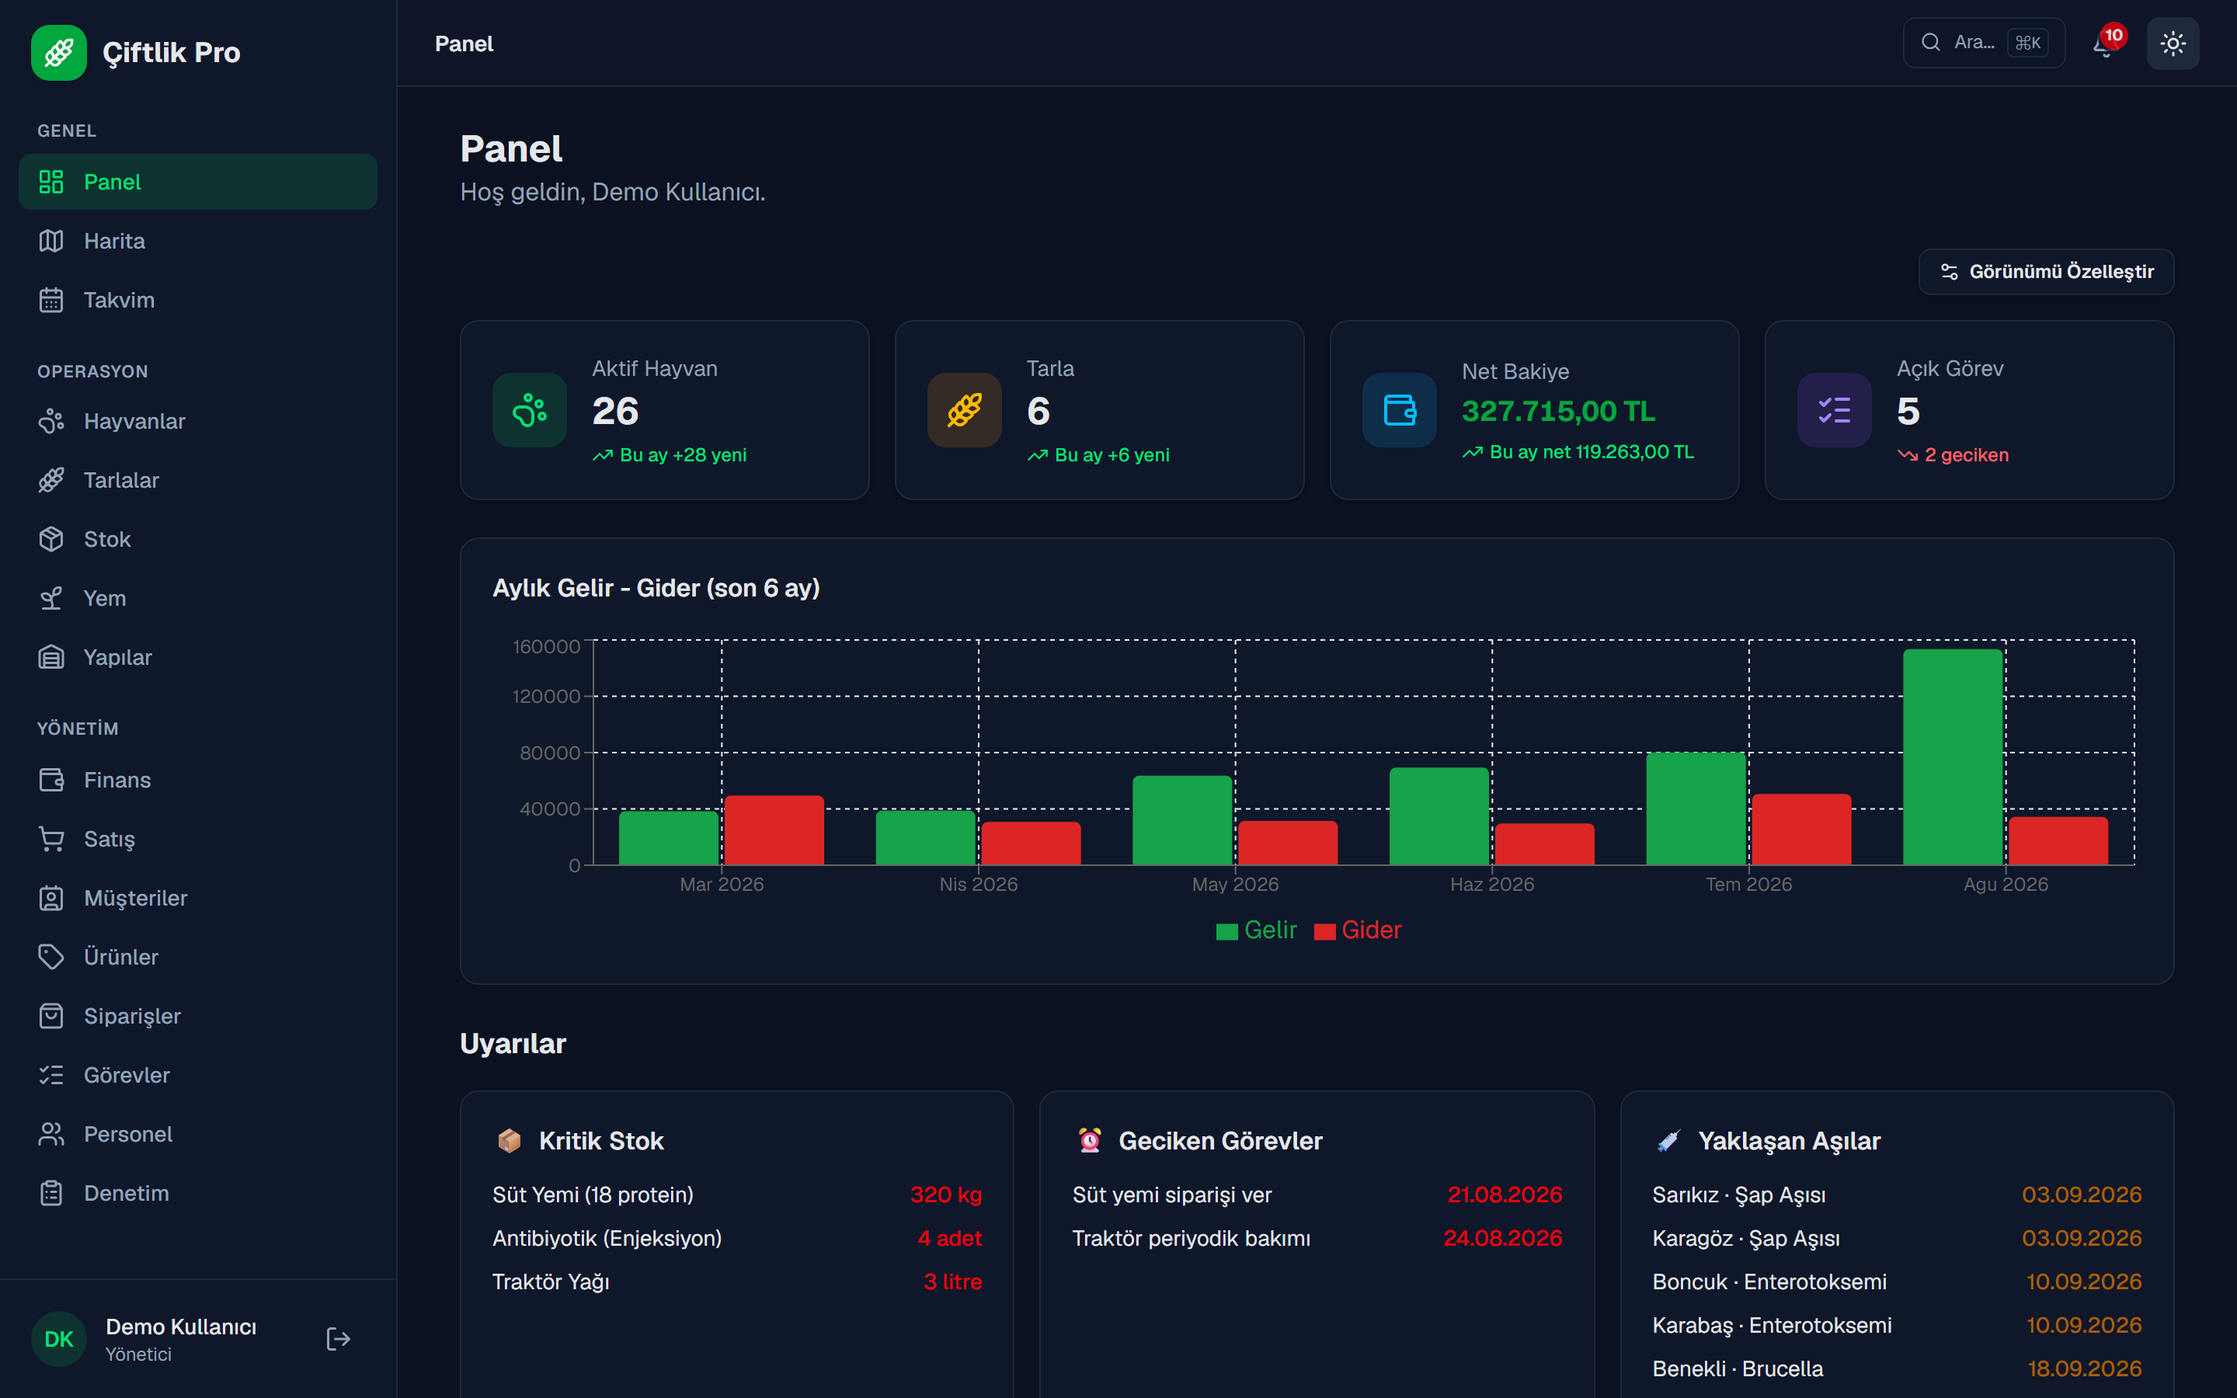
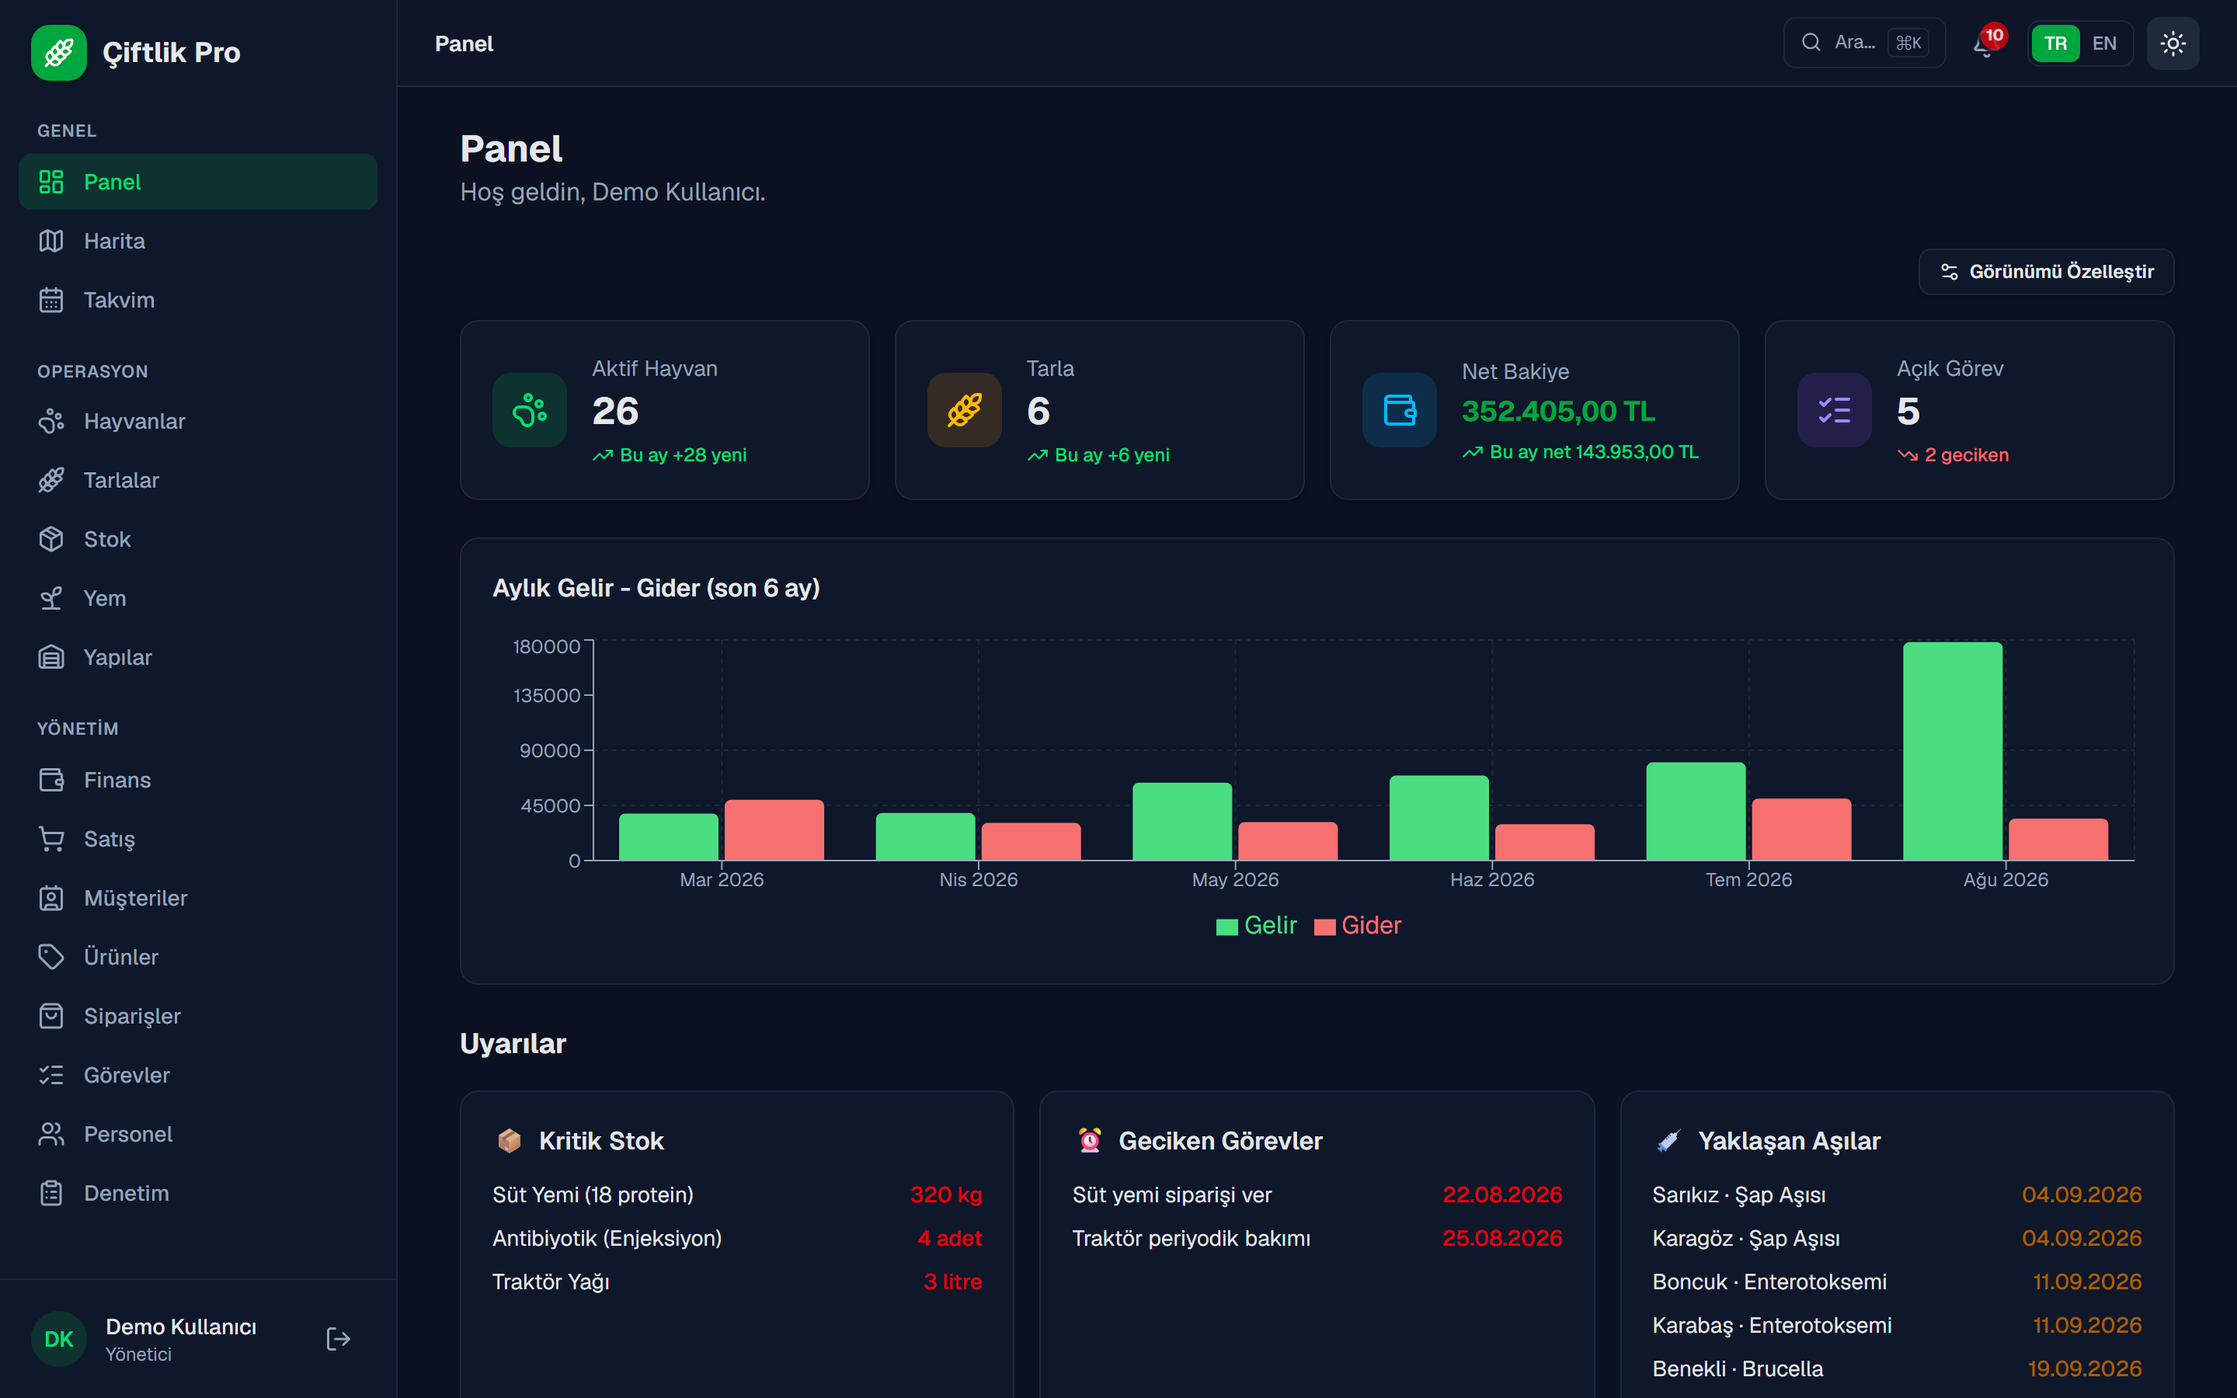
feat(i18n): grafik ay etiketlerini yerellestir, iki dilde gorsel uret, README'leri guncelle
Aylik gelir-gider grafiginin ekseninde sabit bir Turkce kisa-ay dizisi vardi
(Oca/Sub/Mar...), yani Ingilizce panelde "Nis 2026" gorunuyordu. Intl ile aktif
dile gore uretiliyor; buildMonthlyFinance artik locale aliyor ve yeni birim testi
iki dilin FARKLI etiket urettigini dogruluyor.

Ekran goruntusu ve GIF script'leri iki dilli:
- SHOT_LOCALE=en -> docs/screenshots/en/ + docs/demo.en.gif
- varsayilan tr -> mevcut yollar (README.tr.md degismedi)
Metne dayali seciciler (demo dugmesi, tema anahtari) artik ceviri katalogundan
okunuyor — uygulamayla tek kaynak, dil degisince sessizce kirilmiyor. Onboarding
kapat dugmesine data-testid eklendi: aria-label cevrildigi icin metne dayali
secici EN kosusunda kirilirdi.

README'lerdeki daraltilmis i18n ifadesi artik gecersiz: kapsam "her ekran + her
API mesaji, 818 anahtar" olarak guncellendi; ARCHITECTURE'daki "Partial i18n
coverage" sinirlamasi, bilincli iki istisnayi (kiraci verisi + gunluk ozet
e-postasi) anlatan bir satirla degistirildi. Test sayisi 303.

Claude-Session: https://claude.ai/code/session_01FkQpp2zrA9WRvBEyv7TnP3

diff --git a/src/lib/finance.ts b/src/lib/finance.ts
@@ -6,10 +6,8 @@ export type MonthlyFinance = {
   gider: number;
 };
 
-const MONTH_NAMES = [
-  "Oca", "Sub", "Mar", "Nis", "May", "Haz",
-  "Tem", "Agu", "Eyl", "Eki", "Kas", "Ara",
-];
+// Ay etiketi aktif dile gore uretilir: Intl kisa ay adini (Oca / Jan) verir,
+// boylece sabit bir Turkce dizi tutmaya gerek kalmaz.
 
 type SimpleTransaction = {
   type: "INCOME" | "EXPENSE";
@@ -19,8 +17,12 @@ type SimpleTransaction = {
 
 // Islemleri son 6 aya gore gruplayip grafik verisi uretir.
 export function buildMonthlyFinance(
-  transactions: SimpleTransaction[]
+  transactions: SimpleTransaction[],
+  locale: string = "tr"
 ): MonthlyFinance[] {
+  const monthLabel = new Intl.DateTimeFormat(locale === "tr" ? "tr-TR" : "en-US", {
+    month: "short",
+  });
   const now = new Date();
   const buckets: MonthlyFinance[] = [];
   const keyToIndex = new Map<string, number>();
@@ -29,7 +31,7 @@ export function buildMonthlyFinance(
   for (let i = 5; i >= 0; i--) {
     const d = new Date(now.getFullYear(), now.getMonth() - i, 1);
     const key = `${d.getFullYear()}-${d.getMonth()}`;
-    const label = `${MONTH_NAMES[d.getMonth()]} ${d.getFullYear()}`;
+    const label = `${monthLabel.format(d)} ${d.getFullYear()}`;
     keyToIndex.set(key, buckets.length);
     buckets.push({ month: label, gelir: 0, gider: 0 });
   }

diff --git a/src/lib/finance.test.ts b/src/lib/finance.test.ts
@@ -7,6 +7,19 @@ describe("buildMonthlyFinance", () => {
     expect(result).toHaveLength(6);
   });
 
+  it("ay etiketi aktif dile gore uretilir", () => {
+    const tr = buildMonthlyFinance([], "tr").map((m) => m.month);
+    const en = buildMonthlyFinance([], "en").map((m) => m.month);
+    // Etiket "<kisa ay> <yil>" bicimindedir ve dile gore FARKLI olmalidir
+    // (grafik ekseninde Ingilizce arayuzde Turkce ay adi gorunmesin).
+    expect(tr).toHaveLength(6);
+    expect(en).toHaveLength(6);
+    expect(tr.every((label) => /^\S+ \d{4}$/.test(label))).toBe(true);
+    expect(en.every((label) => /^\S+ \d{4}$/.test(label))).toBe(true);
+    // Yil ayni, ay adi dile bagli: en az bir ayda ayrisirlar.
+    expect(tr.some((label, i) => label !== en[i])).toBe(true);
+  });
+
   it("bos veride tum aylar sifirdir", () => {
     const result = buildMonthlyFinance([]);
     for (const month of result) {

diff --git a/src/components/onboarding-modal.tsx b/src/components/onboarding-modal.tsx
@@ -208,6 +208,9 @@ export function OnboardingModal({
             type="button"
             onClick={finish}
             aria-label={t("close")}
+            // Ekran goruntusu/GIF script'leri modali dilden BAGIMSIZ kapatabilsin diye
+            // (aria-label artik cevriliyor; metne dayali secici EN kosusunda kirilirdi).
+            data-testid="onboarding-close"
             className="absolute right-4 top-4 rounded-lg p-1 text-white/80 transition hover:bg-card/20 hover:text-white focus-visible:outline-none focus-visible:ring-2 focus-visible:ring-white"
           >
             <X className="h-5 w-5" />

diff --git a/src/app/panel/page.tsx b/src/app/panel/page.tsx
@@ -129,7 +129,7 @@ export default async function PanelPage() {
 
   const criticalItems = inventoryItems;
 
-  const monthlyFinance = buildMonthlyFinance(recentTransactions);
+  const monthlyFinance = buildMonthlyFinance(recentTransactions, locale);
 
   const hasAlerts =
     criticalItems.length > 0 ||

diff --git a/README.md b/README.md
@@ -13,12 +13,14 @@ role-based dashboard.
 [![TypeScript](https://img.shields.io/badge/TypeScript-5-blue?logo=typescript&logoColor=white)](https://www.typescriptlang.org/)
 [![Prisma](https://img.shields.io/badge/Prisma-6-2D3748?logo=prisma&logoColor=white)](https://www.prisma.io/)
 [![PostgreSQL](https://img.shields.io/badge/PostgreSQL-16-4169E1?logo=postgresql&logoColor=white)](https://www.postgresql.org/)
-[![Tests](https://img.shields.io/badge/tests-293%20unit%20%2B%2018%20e2e-success)](#testing--quality)
+[![Tests](https://img.shields.io/badge/tests-303%20unit%20%2B%2018%20e2e-success)](#testing--quality)
 [![Multi-tenant](https://img.shields.io/badge/multi--tenant-Postgres%20RLS-4169E1)](#multi-tenancy)
 [![License: MIT](https://img.shields.io/badge/License-MIT-yellow.svg)](LICENSE)
 
 🔗 **Live demo: [ciftlik-pro.vercel.app](https://ciftlik-pro.vercel.app)** &nbsp;·&nbsp;
-click **"Demo olarak gez"** (Browse as demo) — or `demo@ciftlik.com` / `demo1234`
+click **"Browse as demo"** — or sign in with `demo@ciftlik.com` / `demo1234`
+
+<sub>The demo opens in your browser's language; use the TR/EN switch in the header to change it.</sub>
 
 🇹🇷 **[Türkçe README](README.tr.md)**
 
@@ -31,7 +33,7 @@ click **"Demo olarak gez"** (Browse as demo) — or `demo@ciftlik.com` / `demo12
 Sign in → dashboard → animal list (server-side search) → animal detail (milk and
 weight charts) → 2D farm map → calendar → finance → dark mode → farm storefront:
 
-![Çiftlik Pro demo tour](docs/demo.gif)
+![Çiftlik Pro demo tour](docs/demo.en.gif)
 
 ---
 
@@ -81,23 +83,23 @@ a user by email at sign-in, and opening an invitation link by token — go throu
 **Dashboard** — sidebar layout, summary cards with real month-over-month deltas,
 and a monthly income/expense chart:
 
-![Dashboard](docs/screenshots/dashboard.png)
+![Dashboard](docs/screenshots/en/dashboard.png)
 
 | 🌙 Dark mode | 🛒 Farm storefront (`/magaza/[slug]`) |
 | ------------ | ------------------------------------- |
-| ![Dark mode](docs/screenshots/dashboard-dark.png) | ![Storefront](docs/screenshots/store.png) |
+| ![Dark mode](docs/screenshots/en/dashboard-dark.png) | ![Storefront](docs/screenshots/en/store.png) |
 
 | 💳 Billing — plan & usage limits | 👥 Staff — invitations & roles |
 | -------------------------------- | ------------------------------ |
-| ![Billing](docs/screenshots/billing.png) | ![Staff](docs/screenshots/staff.png) |
+| ![Billing](docs/screenshots/en/billing.png) | ![Staff](docs/screenshots/en/staff.png) |
 
 | Animals (server-side searchable table) | Animal detail (milk / weight charts) |
 | -------------------------------------- | ------------------------------------ |
-| ![Animals](docs/screenshots/animals.png) | ![Animal detail](docs/screenshots/animal-detail.png) |
+| ![Animals](docs/screenshots/en/animals.png) | ![Animal detail](docs/screenshots/en/animal-detail.png) |
 
 | 2D farm map | Calendar (vaccinations / tasks / harvest / births) |
 | ----------- | -------------------------------------------------- |
-| ![Map](docs/screenshots/map.png) | ![Calendar](docs/screenshots/calendar.png) |
+| ![Map](docs/screenshots/en/map.png) | ![Calendar](docs/screenshots/en/calendar.png) |
 
 ---
 
@@ -134,13 +136,15 @@ and a monthly income/expense chart:
   palette, and a `cva`-based design system.
 - **Onboarding tour** — a role-specific, multi-step welcome modal on the first
   visit to the dashboard; restartable at any time from the profile page.
-- **Bilingual (TR/EN)** — next-intl with a cookie-selected locale (Turkish by
-  default): **all 466 translation keys** exist in both locales, including
-  localized date and currency formatting. Coverage is the dashboard and the panel
-  modules — navigation, lists, forms, calendar labels, summary cards. The newer
-  surfaces (public storefront, billing, invitation screens) and server-side API
-  error messages are still Turkish-only; the plumbing is in place, they simply
-  have not been moved to the catalogue yet.
+- **Bilingual (TR/EN), end to end** — every screen and every API error message,
+  in **all 818 translation keys** across both catalogues: the panel, the public
+  storefront and cart, billing, invitations, the 404 and error boundaries, and
+  the responses a write endpoint returns. Dates, currency and chart month labels
+  follow the active locale too. A first-time visitor gets their **browser's
+  language** (`Accept-Language`); the switcher in the header — or on the profile
+  page — pins a choice in a cookie from then on. The two exceptions are
+  deliberate: farm data belongs to the tenant who typed it, and the daily digest
+  email has no viewer whose language to read.
 - **Email alerts** — a daily cron emails each tenant's admins a digest of critical
   stock, overdue tasks and upcoming vaccinations (Resend).
 
@@ -347,7 +351,7 @@ npm run dev              # http://localhost:3000
 
 ## Testing & quality
 
-- **293 unit/component tests** (Vitest + Testing Library) covering validation
+- **303 unit/component tests** (Vitest + Testing Library) covering validation
   schemas, RBAC, rate limiting, list query parsing, plan limits, finance/map/date/
   calendar helpers and UI primitives — **~90% line coverage on business logic** (the shared, database-backed paths are covered by integration tests instead).
 - **Tenant isolation integration tests** (`*.int.test.ts`) against a real

diff --git a/README.tr.md b/README.tr.md
@@ -12,7 +12,7 @@ Sistemi (ERP) — hayvan, tarla, stok, finans, satış, mağaza ve personel tek 
 [![Prisma](https://img.shields.io/badge/Prisma-6-2D3748?logo=prisma&logoColor=white)](https://www.prisma.io/)
 [![PostgreSQL](https://img.shields.io/badge/PostgreSQL-16-4169E1?logo=postgresql&logoColor=white)](https://www.postgresql.org/)
 [![codecov](https://codecov.io/gh/YusufKosarDev/ciftlik-pro/branch/main/graph/badge.svg)](https://codecov.io/gh/YusufKosarDev/ciftlik-pro)
-[![Tests](https://img.shields.io/badge/tests-293%20unit%20%2B%2018%20e2e-success)](#test--kalite)
+[![Tests](https://img.shields.io/badge/tests-303%20unit%20%2B%2018%20e2e-success)](#test--kalite)
 [![Multi-tenant](https://img.shields.io/badge/multi--tenant-Postgres%20RLS-4169E1)](#-çok-kiracılık-multi-tenant-saas)
 [![License: MIT](https://img.shields.io/badge/License-MIT-yellow.svg)](LICENSE)
 
@@ -101,12 +101,14 @@ göstergeleriyle) ve aylık gelir-gider grafiği:
   stok / geciken görev / yaklaşan aşı uyarıları.
 - **Modern arayüz** — sol sidebar düzeni, dark mode (semantik renk token'ları), `⌘K`
   komut paleti (hızlı gezinme + eylem) ve `cva` tabanlı tasarım sistemi.
-- **Çok dillilik (i18n)** — next-intl, cookie-locale, varsayılan TR:
-  **466 çeviri anahtarının tamamı** iki dilde de karşılanıyor; tarih ve para
-  biçimlendirmesi de yerelleştirilmiş. Kapsam dashboard ve panel modülleridir —
-  navigasyon, listeler, formlar, takvim etiketleri, özet kartları. Sonradan eklenen
-  ekranlar (herkese açık mağaza, abonelik, davet) ve sunucu tarafı API hata
-  mesajları henüz yalnızca Türkçe; altyapı hazır, bu ekranlar kataloğa taşınmadı.
+- **Çok dillilik (i18n) — uçtan uca** — her ekran ve her API hata mesajı, iki
+  katalogdaki **818 çeviri anahtarının tamamıyla**: panel, herkese açık mağaza ve
+  sepet, abonelik, davet akışı, 404 ve hata sınırları, yazma uçlarının döndürdüğü
+  yanıtlar. Tarih, para ve grafik ay etiketleri de aktif dile uyar. İlk kez gelen
+  ziyaretçi **tarayıcısının dilini** görür (`Accept-Language`); başlıktaki — ya da
+  Profil sayfasındaki — değiştirici seçimi cookie'ye sabitler. İki istisna
+  bilinçlidir: çiftlik verisi onu giren kiracıya aittir ve günlük özet
+  e-postasının dilini okuyacağı bir ziyaretçi yoktur.
 - **Hoş geldin turu (onboarding)** — ilk panel girişinde role özel, çok adımlı
   tanıtım modal'ı; Profil'den istenildiğinde yeniden başlatılabilir.
 - **Aranabilir tablolar** — tüm liste modüllerinde **sunucu-tarafı (DB)** arama,
@@ -124,7 +126,7 @@ göstergeleriyle) ve aylık gelir-gider grafiği:
   (API) hem hassas okuma (sayfa) düzeyinde uygulanır.
 - **Uçtan uca tip güvenliği** — Zod şemaları hem istemci hem sunucuda doğrular;
   Prisma ile veritabanı tipleri.
-- **Test & CI/CD** — 293 birim/bileşen testi (Vitest + Testing Library) +
+- **Test & CI/CD** — 303 birim/bileşen testi (Vitest + Testing Library) +
   tenant-izolasyon entegrasyon testleri + 18 uçtan uca test (Playwright),
   GitHub Actions'ta gerçek PostgreSQL servisiyle her PR'da çalışır.
 - **Transactional bütünlük** — yem tüketimi stoğu atomik düşürür (TOCTOU'ya karşı
@@ -372,7 +374,7 @@ Seed çalıştırıldıysa:
 - **Birim testleri (Vitest):** doğrulama şemaları, RBAC yetkilendirme, hız sınırı,
   liste sorgu parametreleri, plan limitleri, finans/harita/tarih/takvim yardımcıları
   + UI bileşenleri (Testing Library: Badge/Button/EmptyState/DataTable/OnboardingModal)
-  — `npm test` (293 test). Kapsam raporu için
+  — `npm test` (303 test). Kapsam raporu için
   `npm run test:coverage` (iş mantığı `src/lib` için ~%90 satır kapsamı; paylaşılan veritabanı yolları entegrasyon testleriyle kapsanır).
 - **Tenant-izolasyon entegrasyon testleri:** gerçek PostgreSQL + non-superuser
   `ciftlik_app` rolüyle `forTenant`/RLS izolasyonu (`*.int.test.ts`) — tenant A

diff --git a/docs/ARCHITECTURE.md b/docs/ARCHITECTURE.md
@@ -299,4 +299,4 @@ Stated plainly, because pretending they do not exist is worse than having them.
 | **One tenant per user** | `User.tenantId` is a single value; a person cannot belong to two farms. | Introduce a `Membership` join table; the session already carries `tenantId`, so the change is mostly in auth and the tenant resolver. |
 | **Tenant resolved from the session, not the URL** | No `acme.ciftlik-pro.app` subdomains yet. | `Tenant.slug` already exists and the storefront already resolves by slug; extending it to the panel is additive. |
 | **Invitation tokens stored in plaintext** | Database read access exposes pending invite tokens. | Store a hash and compare on accept — tokens are already single-use and time-limited. |
-| **Partial i18n coverage** | All 466 keys exist in both locales, but the newer screens (public storefront, billing, invitations) and server-side API error messages are hard-coded Turkish, so an English reader still meets Turkish text there. | next-intl is already wired for the whole app; moving a screen is mechanical — extract its strings into `messages/tr.json` + `messages/en.json` and swap in `useTranslations`. |
+| **Two surfaces stay Turkish by design** | Farm data (animal names, product descriptions, task titles — including the demo dataset) and the daily digest email. | Neither is a translation gap: data belongs to the tenant who typed it, and the cron that sends the digest has no viewer whose language to read. Per-tenant language would be the way to localize the digest. |
